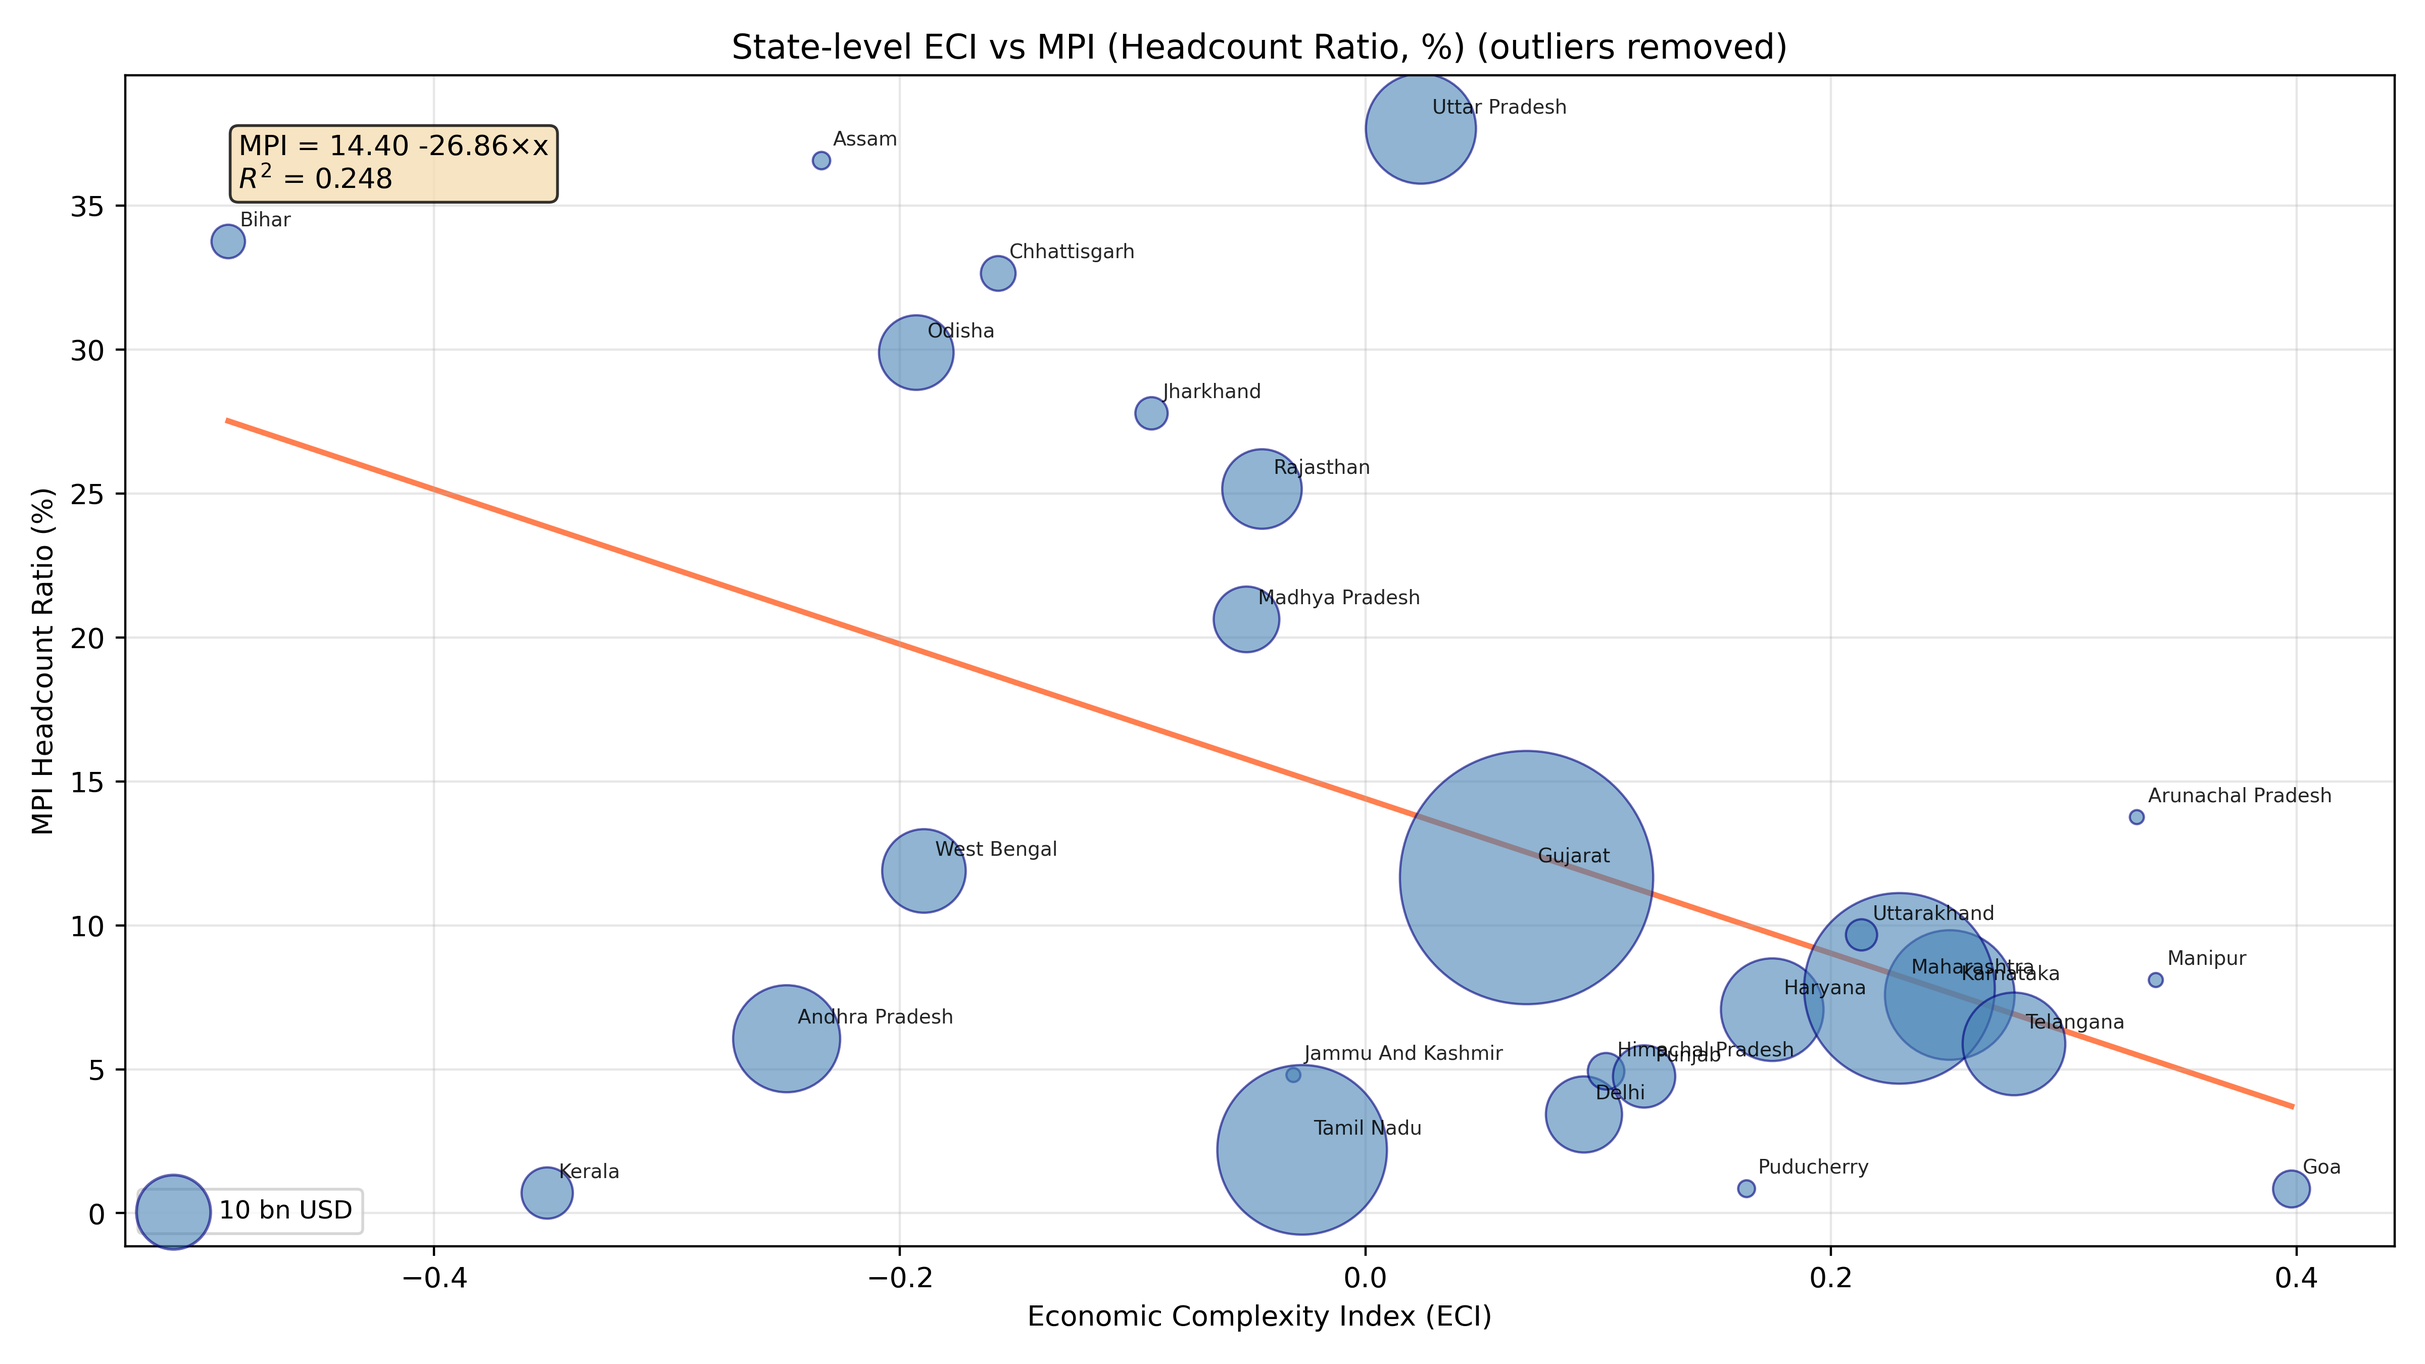
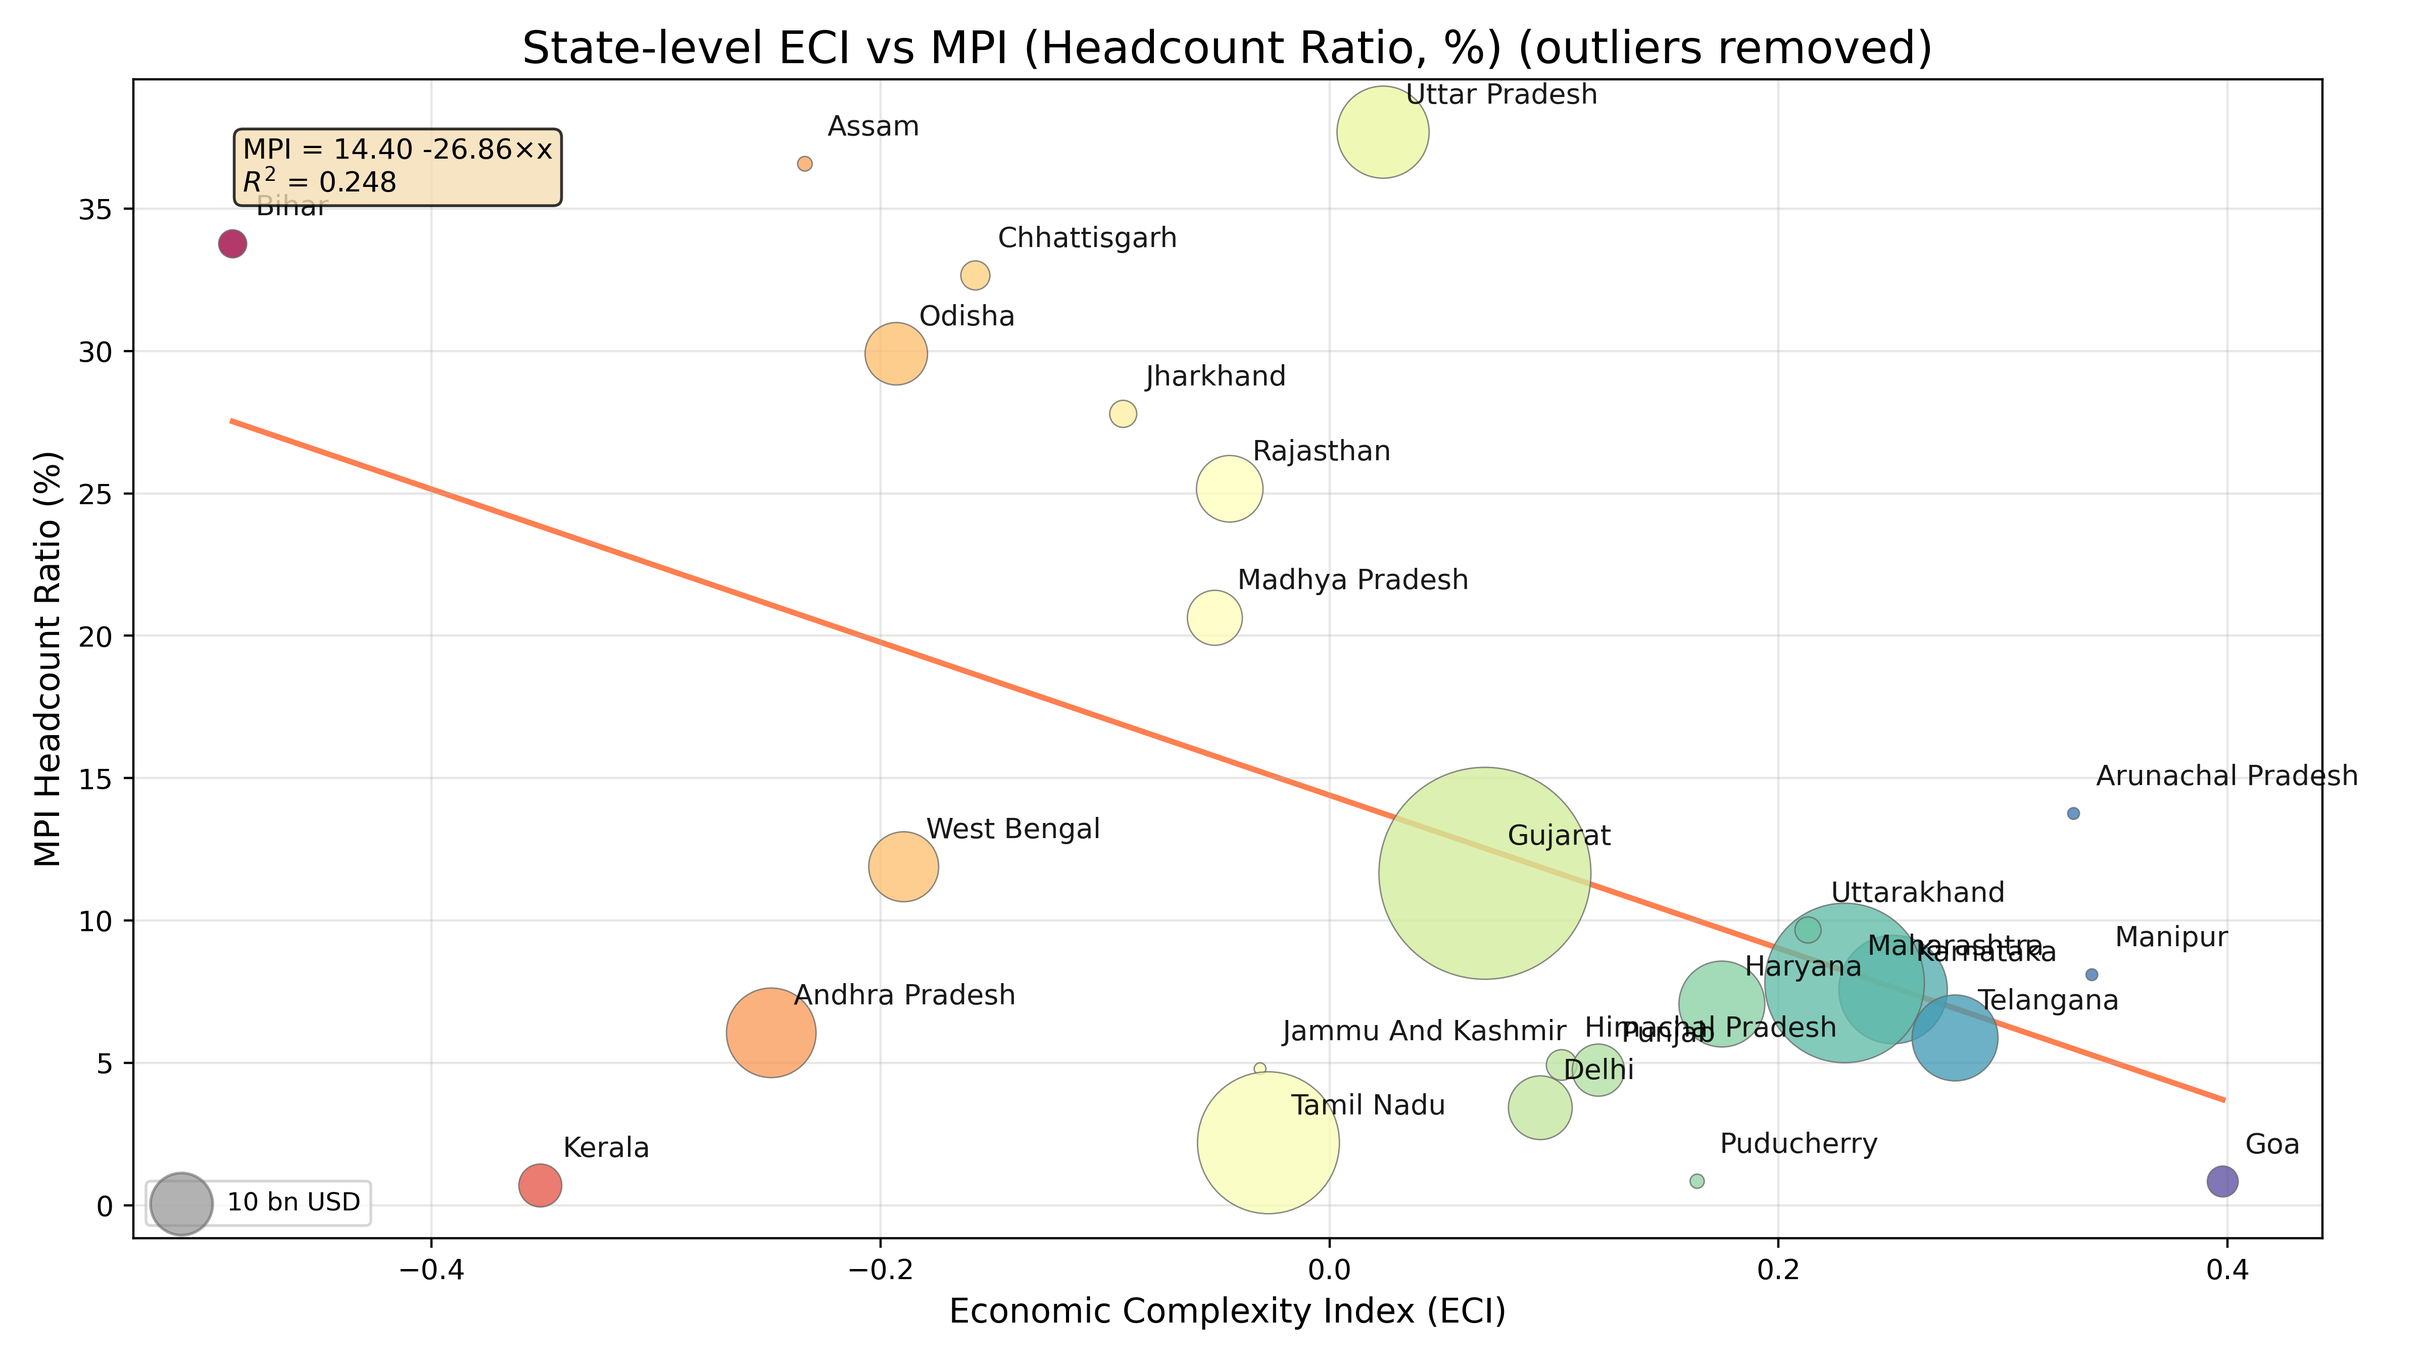
Update plot_eci_state and state ECI vs GSDP/MPI/VIIRS plots

diff --git a/plot_eci_state.py b/plot_eci_state.py
@@ -37,6 +37,7 @@ DPI_HIGH = 400
 # Cap set so largest state (~116 bn) is not clipped; 116*70 = 8120
 AREA_PER_BN = 70   # points² per billion USD
 BUBBLE_SIZE_MIN, BUBBLE_SIZE_MAX = 25, 9000
+BUBBLE_SIZE_SCALE = 0.7   # scale all bubbles and legend circle(s) by this factor
 BUBBLE_REF_EXPORTS = [10e9]  # legend: single circle for 10 bn USD
 
 
@@ -107,14 +108,15 @@ def compute_state_mpi_export_weighted(
 
 
 def _bubble_sizes_and_legend(export_usd: np.ndarray):
-    """Return sizes (area ∝ export USD) and legend refs. Matplotlib s = area in points²."""
-    # area ∝ export: s = (export_usd / 1e9) * AREA_PER_BN, clipped
-    sizes = np.clip(
+    """Return sizes (area ∝ export USD) and legend refs. Matplotlib s = area in points². Scaled by BUBBLE_SIZE_SCALE."""
+    # area ∝ export: s = (export_usd / 1e9) * AREA_PER_BN, clipped, then scaled
+    raw = np.clip(
         (np.asarray(export_usd, dtype=float) / 1e9) * AREA_PER_BN,
         BUBBLE_SIZE_MIN,
         BUBBLE_SIZE_MAX,
     )
-    ref_sizes = [min((ex / 1e9) * AREA_PER_BN, BUBBLE_SIZE_MAX) for ex in BUBBLE_REF_EXPORTS]
+    sizes = raw * BUBBLE_SIZE_SCALE
+    ref_sizes = [min((ex / 1e9) * AREA_PER_BN, BUBBLE_SIZE_MAX) * BUBBLE_SIZE_SCALE for ex in BUBBLE_REF_EXPORTS]
     return sizes, BUBBLE_REF_EXPORTS, ref_sizes
 
 
@@ -149,9 +151,9 @@ def _add_state_labels(ax, df_plot: pd.DataFrame, x_col: str, y_col: str, scatter
         t = ax.annotate(
             _short_state_name(row["State"]),
             (row[x_col], row[y_col]),
-            fontsize=7,
-            alpha=0.85,
-            xytext=(4, 4),
+            fontsize=10,
+            alpha=0.9,
+            xytext=(8, 8),
             textcoords="offset points",
             ha="left",
             va="bottom",
@@ -162,10 +164,11 @@ def _add_state_labels(ax, df_plot: pd.DataFrame, x_col: str, y_col: str, scatter
             ax=ax,
             x=x_vals,
             y=y_vals,
-            force_text=(0.6, 1.0),
-            force_pull=(0.01, 0.02),
-            expand=(1.2, 1.5),
-            max_move=(100, 100),
+            force_text=(1.2, 1.8),
+            force_pull=(0.005, 0.01),
+            force_explode=(0.2, 0.8),
+            expand=(1.6, 2.0),
+            max_move=(200, 200),
             arrowprops=dict(arrowstyle="-", color="gray", lw=0.5),
         )
         if scatter_artist is not None:
@@ -179,8 +182,9 @@ def _plot_eci_vs_gsdp(
     x_label: str,
     out_path: str,
     title: str,
+    color_by: str | None = None,
 ) -> None:
-    """Scatter x (ECI or ECI_std) vs GSDP with linear fit, bubble size = total export USD, state labels, size legend."""
+    """Scatter x (ECI or ECI_std) vs GSDP with linear fit, bubble size = total export USD, state labels, size legend. Optional Spectral color by color_by."""
     y_col = "GSDP_per_capita"
     df_plot = df.dropna(subset=[x_col, y_col, "Total_Export_USD"]).copy()
     df_plot = df_plot[df_plot["Total_Export_USD"] > 0]
@@ -200,17 +204,23 @@ def _plot_eci_vs_gsdp(
     sizes, ref_exports, ref_sizes = _bubble_sizes_and_legend(export_usd)
 
     fig, ax = plt.subplots(figsize=FIG_SIZE_16_9)
-    sc = ax.scatter(x, y, s=sizes, alpha=0.6, c="steelblue", edgecolors="navy", linewidths=0.8, zorder=2)
+    if color_by and color_by in df_plot.columns:
+        c_vals = df_plot[color_by].values
+        sc = ax.scatter(x, y, s=sizes, c=c_vals, cmap="Spectral", alpha=0.78, edgecolors="dimgrey", linewidths=0.5, zorder=2)
+        legend_color = "grey"
+    else:
+        sc = ax.scatter(x, y, s=sizes, alpha=0.6, c="steelblue", edgecolors="navy", linewidths=0.8, zorder=2)
+        legend_color = "steelblue"
     ax.plot(x_line, y_line, color="coral", linewidth=2, zorder=1)
-    ax.set_xlabel(x_label)
-    ax.set_ylabel("GSDP per capita (₹)")
-    ax.set_title(title)
+    ax.set_xlabel(x_label, fontsize=12)
+    ax.set_ylabel("GSDP per capita (₹)", fontsize=12)
+    ax.set_title(title, fontsize=16)
     ax.grid(True, alpha=0.3)
 
     _add_state_labels(ax, df_plot, x_col, y_col, scatter_artist=sc)
 
     legend_handles = [
-        plt.scatter([], [], s=sz, c="steelblue", edgecolors="navy", alpha=0.6, label=f"{int(ex/1e9)} bn USD")
+        plt.scatter([], [], s=sz, c=legend_color, edgecolors="navy" if legend_color == "steelblue" else "dimgrey", alpha=0.6, label=f"{int(ex/1e9)} bn USD")
         for ex, sz in zip(ref_exports, ref_sizes)
     ]
     ax.legend(handles=legend_handles, loc="lower right", fontsize=9)
@@ -232,8 +242,10 @@ def _plot_eci_vs_log_gsdp(
     x_label: str,
     out_path: str,
     title: str,
+    color_by: str | None = None,
 ) -> None:
-    """Scatter x (ECI or ECI_std) vs log(GSDP) with linear fit, bubble size = total export USD, state labels, size legend."""
+    """Scatter x (ECI or ECI_std) vs log(GSDP) with linear fit, bubble size = total export USD, state labels, size legend.
+    If color_by is set (e.g. 'ECI_std'), circles are colored by that variable with a sober colormap and a colorbar is added."""
     df_plot = df.dropna(subset=[x_col, "GSDP_per_capita", "Total_Export_USD"]).copy()
     df_plot = df_plot[df_plot["GSDP_per_capita"] > 0]
     df_plot = df_plot[df_plot["Total_Export_USD"] > 0]
@@ -254,17 +266,24 @@ def _plot_eci_vs_log_gsdp(
     sizes, ref_exports, ref_sizes = _bubble_sizes_and_legend(export_usd)
 
     fig, ax = plt.subplots(figsize=FIG_SIZE_16_9)
-    sc = ax.scatter(x, y, s=sizes, alpha=0.6, c="steelblue", edgecolors="navy", linewidths=0.8, zorder=2)
+    if color_by and color_by in df_plot.columns:
+        c_vals = df_plot[color_by].values
+        sc = ax.scatter(x, y, s=sizes, c=c_vals, cmap="Spectral", alpha=0.78, edgecolors="dimgrey", linewidths=0.5, zorder=2)
+        # No colorbar: colors are qualitative/continuous and self-explanatory here
+        legend_color = "grey"
+    else:
+        sc = ax.scatter(x, y, s=sizes, alpha=0.6, c="steelblue", edgecolors="navy", linewidths=0.8, zorder=2)
+        legend_color = "steelblue"
     ax.plot(x_line, y_line, color="coral", linewidth=2, zorder=1)
-    ax.set_xlabel(x_label)
-    ax.set_ylabel("log(GSDP per capita, ₹)")
-    ax.set_title(title)
+    ax.set_xlabel(x_label, fontsize=12)
+    ax.set_ylabel("log(GSDP per capita, ₹)", fontsize=12)
+    ax.set_title(title, fontsize=16)
     ax.grid(True, alpha=0.3)
 
     _add_state_labels(ax, df_plot, x_col, y_col, scatter_artist=sc)
 
     legend_handles = [
-        plt.scatter([], [], s=sz, c="steelblue", edgecolors="navy", alpha=0.6, label=f"{int(ex/1e9)} bn USD")
+        plt.scatter([], [], s=sz, c=legend_color, edgecolors="navy" if legend_color == "steelblue" else "dimgrey", alpha=0.6, label=f"{int(ex/1e9)} bn USD")
         for ex, sz in zip(ref_exports, ref_sizes)
     ]
     ax.legend(handles=legend_handles, loc="lower right", fontsize=9)
@@ -286,8 +305,9 @@ def _plot_eci_vs_mpi_state(
     x_label: str,
     out_path: str,
     title: str,
+    color_by: str | None = None,
 ) -> None:
-    """Scatter x (ECI or ECI_std) vs state export-weighted MPI; same style as GSDP plots."""
+    """Scatter x (ECI or ECI_std) vs state export-weighted MPI; same style as GSDP plots. Optional Spectral color by color_by."""
     y_col = "MPI_export_weighted"
     df_plot = df.dropna(subset=[x_col, y_col, "Total_Export_USD"]).copy()
     df_plot = df_plot[df_plot["Total_Export_USD"] > 0]
@@ -306,17 +326,23 @@ def _plot_eci_vs_mpi_state(
     sizes, ref_exports, ref_sizes = _bubble_sizes_and_legend(export_usd)
 
     fig, ax = plt.subplots(figsize=FIG_SIZE_16_9)
-    sc = ax.scatter(x, y, s=sizes, alpha=0.6, c="steelblue", edgecolors="navy", linewidths=0.8, zorder=2)
+    if color_by and color_by in df_plot.columns:
+        c_vals = df_plot[color_by].values
+        sc = ax.scatter(x, y, s=sizes, c=c_vals, cmap="Spectral", alpha=0.78, edgecolors="dimgrey", linewidths=0.5, zorder=2)
+        legend_color = "grey"
+    else:
+        sc = ax.scatter(x, y, s=sizes, alpha=0.6, c="steelblue", edgecolors="navy", linewidths=0.8, zorder=2)
+        legend_color = "steelblue"
     ax.plot(x_line, y_line, color="coral", linewidth=2, zorder=1)
-    ax.set_xlabel(x_label)
-    ax.set_ylabel("MPI Headcount Ratio (%)")
-    ax.set_title(title)
+    ax.set_xlabel(x_label, fontsize=12)
+    ax.set_ylabel("MPI Headcount Ratio (%)", fontsize=12)
+    ax.set_title(title, fontsize=16)
     ax.grid(True, alpha=0.3)
 
     _add_state_labels(ax, df_plot, x_col, y_col, scatter_artist=sc)
 
     legend_handles = [
-        plt.scatter([], [], s=sz, c="steelblue", edgecolors="navy", alpha=0.6, label=f"{int(ex/1e9)} bn USD")
+        plt.scatter([], [], s=sz, c=legend_color, edgecolors="navy" if legend_color == "steelblue" else "dimgrey", alpha=0.6, label=f"{int(ex/1e9)} bn USD")
         for ex, sz in zip(ref_exports, ref_sizes)
     ]
     ax.legend(handles=legend_handles, loc="lower left", fontsize=9)  # downward slope: legend bottom-left
@@ -340,8 +366,9 @@ def _plot_eci_vs_viirs(
     title: str,
     eq_label: str,
     filter_viirs_outlier: bool = True,
+    color_by: str | None = None,
 ) -> None:
-    """ECI vs VIIRS (or log VIIRS): linear fit, bubble = total export USD, state labels, 1B/10B legend. Optionally drop VIIRS < -3."""
+    """ECI vs VIIRS (or log VIIRS): linear fit, bubble = total export USD, state labels, 1B/10B legend. Optional Spectral color by color_by."""
     x_col = "ECI"
     x_label = "Economic Complexity Index (ECI)"
     df_plot = df.dropna(subset=[x_col, y_col, "Total_Export_USD"]).copy()
@@ -368,17 +395,23 @@ def _plot_eci_vs_viirs(
     sizes, ref_exports, ref_sizes = _bubble_sizes_and_legend(export_usd)
 
     fig, ax = plt.subplots(figsize=FIG_SIZE_16_9)
-    sc = ax.scatter(x, y, s=sizes, alpha=0.6, c="steelblue", edgecolors="navy", linewidths=0.8, zorder=2)
+    if color_by and color_by in df_plot.columns:
+        c_vals = df_plot[color_by].values
+        sc = ax.scatter(x, y, s=sizes, c=c_vals, cmap="Spectral", alpha=0.78, edgecolors="dimgrey", linewidths=0.5, zorder=2)
+        legend_color = "grey"
+    else:
+        sc = ax.scatter(x, y, s=sizes, alpha=0.6, c="steelblue", edgecolors="navy", linewidths=0.8, zorder=2)
+        legend_color = "steelblue"
     ax.plot(x_line, y_line, color="coral", linewidth=2, zorder=1)
-    ax.set_xlabel(x_label)
-    ax.set_ylabel(y_label)
-    ax.set_title(title)
+    ax.set_xlabel(x_label, fontsize=12)
+    ax.set_ylabel(y_label, fontsize=12)
+    ax.set_title(title, fontsize=16)
     ax.grid(True, alpha=0.3)
 
     _add_state_labels(ax, df_plot, x_col, y_col, scatter_artist=sc)
 
     legend_handles = [
-        plt.scatter([], [], s=sz, c="steelblue", edgecolors="navy", alpha=0.6, label=f"{int(ex/1e9)} bn USD")
+        plt.scatter([], [], s=sz, c=legend_color, edgecolors="navy" if legend_color == "steelblue" else "dimgrey", alpha=0.6, label=f"{int(ex/1e9)} bn USD")
         for ex, sz in zip(ref_exports, ref_sizes)
     ]
     ax.legend(handles=legend_handles, loc="lower right", fontsize=9)
@@ -429,12 +462,14 @@ def main():
             "Economic Complexity Index (ECI)",
             str(base / "state_eci_vs_mpi.png"),
             f"State-level ECI vs {mpi_label}",
+            color_by="ECI",
         )
         _plot_eci_vs_mpi_state(
             df, "ECI_std",
             "ECI (standardized)",
             str(base / "state_eci_std_vs_mpi.png"),
             f"State-level ECI (standardized) vs {mpi_label}",
+            color_by="ECI_std",
         )
         df_removed = df[~df["State"].str.upper().isin(EXCLUDED_STATES_GSDP)].copy()
         _plot_eci_vs_mpi_state(
@@ -442,12 +477,14 @@ def main():
             "Economic Complexity Index (ECI)",
             str(base / "state_eci_vs_mpi_removed.png"),
             f"State-level ECI vs {mpi_label} (outliers removed)",
+            color_by="ECI",
         )
         _plot_eci_vs_mpi_state(
             df_removed, "ECI_std",
             "ECI (standardized)",
             str(base / "state_eci_std_vs_mpi_removed.png"),
             f"State-level ECI (standardized) vs {mpi_label} (outliers removed)",
+            color_by="ECI_std",
         )
     elif not mpi_label:
         print("Skipping state ECI vs MPI plots (no mpi_state_data.csv or district MPI/trade data)")
@@ -458,12 +495,14 @@ def main():
         "Economic Complexity Index (ECI)",
         str(base / "state_eci_vs_gsdp.png"),
         "State-level ECI vs GSDP per capita",
+        color_by="ECI",
     )
     _plot_eci_vs_gsdp(
         df, "ECI_std",
         "ECI (standardized)",
         str(base / "state_eci_std_vs_gsdp.png"),
         "State-level ECI (standardized) vs GSDP per capita",
+        color_by="ECI_std",
     )
     # Same ECI vs GSDP plots with outlier states removed
     df_removed = df[~df["State"].str.upper().isin(EXCLUDED_STATES_GSDP)].copy()
@@ -472,12 +511,22 @@ def main():
         "Economic Complexity Index (ECI)",
         str(base / "state_eci_vs_gsdp_removed.png"),
         "State-level ECI vs GSDP per capita (outliers removed)",
+        color_by="ECI",
     )
     _plot_eci_vs_gsdp(
         df_removed, "ECI_std",
         "ECI (standardized)",
         str(base / "state_eci_std_vs_gsdp_removed.png"),
         "State-level ECI (standardized) vs GSDP per capita (outliers removed)",
+        color_by="ECI_std",
+    )
+    # ECI (standardized) vs log(GSDP per capita), all states (high-res, colored by ECI_std)
+    _plot_eci_vs_log_gsdp(
+        df, "ECI_std",
+        "ECI (standardized)",
+        str(base / "state_eci_std_vs_log_gsdp.png"),
+        "State-level ECI (standardized) vs log(GSDP per capita)",
+        color_by="ECI_std",
     )
     # ECI vs log(GSDP per capita), outliers removed
     _plot_eci_vs_log_gsdp(
@@ -485,12 +534,14 @@ def main():
         "Economic Complexity Index (ECI)",
         str(base / "state_eci_vs_log_gsdp_removed.png"),
         "State-level ECI vs log(GSDP per capita) (outliers removed)",
+        color_by="ECI",
     )
     _plot_eci_vs_log_gsdp(
         df_removed, "ECI_std",
         "ECI (standardized)",
         str(base / "state_eci_std_vs_log_gsdp_removed.png"),
         "State-level ECI (standardized) vs log(GSDP per capita) (outliers removed)",
+        color_by="ECI_std",
     )
     # ECI vs VIIRS (outlier VIIRS < -3 removed; bubbles + state labels; 1B/10B legend)
     _plot_eci_vs_viirs(
@@ -499,6 +550,7 @@ def main():
         title="State-level ECI vs VIIRS Mean Luminosity",
         eq_label="VIIRS",
         filter_viirs_outlier=True,
+        color_by="ECI",
     )
     # ECI vs log VIIRS (same: drop VIIRS < -3, then take log of positive values)
     df_viirs = df.dropna(subset=["ECI", "VIIRS_Mean", "Total_Export_USD"]).copy()
@@ -511,6 +563,7 @@ def main():
         title="State-level ECI vs log(VIIRS Mean Luminosity)",
         eq_label="log(VIIRS)",
         filter_viirs_outlier=False,  # already filtered above
+        color_by="ECI",
     )
 
 
